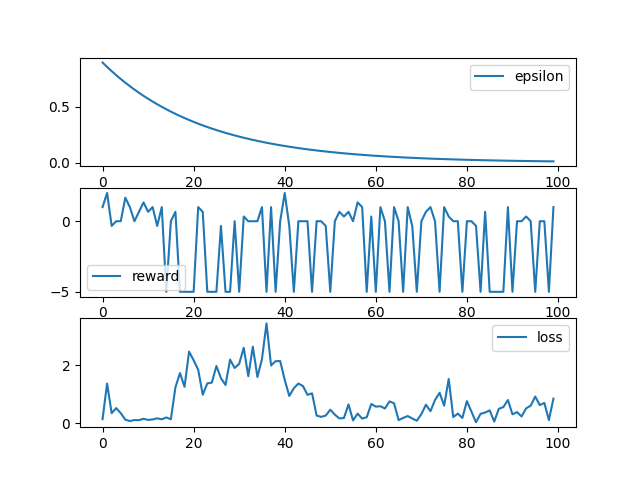
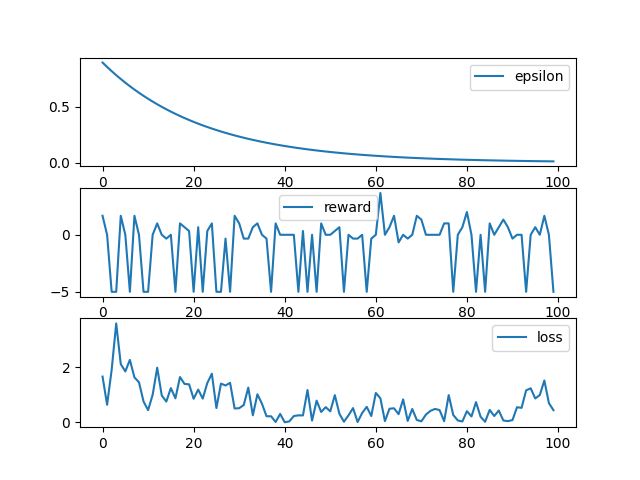
hard to tell if this is any good

diff --git a/multi_optim/mapf_with_rl.py b/multi_optim/mapf_with_rl.py
@@ -123,7 +123,7 @@ class Scenario(object):
 def make_useful_scenarios(n: int, seed) -> List[Scenario]:
     scenarios: List[Scenario] = []
     if n > 1:
-        pb = ProgressBar("Data Generation", n, 1)
+        pb = ProgressBar("Data Generation", n, 5)
     while len(scenarios) < n:
         scen_data: SCENARIO_TYPE = tracing_pathes_in_the_dark(
             size=4,
@@ -151,6 +151,7 @@ class Qfunction(torch.nn.Module):
         torch.manual_seed(0)
         self.conv1 = GCNConv(num_node_features, hidden_channels)
         self.conv2 = GCNConv(hidden_channels, hidden_channels)
+        self.conv3 = GCNConv(hidden_channels, hidden_channels)
         self.lin = Linear(hidden_channels*3, num_actions)
 
     def forward(self, data: Data):
@@ -163,7 +164,11 @@ class Qfunction(torch.nn.Module):
         # 1. Obtain node embeddings
         x = self.conv1(x, edge_index)
         x = x.relu()
+        x = F.dropout(x, p=0.4, training=self.training)
         x = self.conv2(x, edge_index)
+        x = x.relu()
+        x = F.dropout(x, p=0.4, training=self.training)
+        x = self.conv3(x, edge_index)
         x = x.relu()
 
         # 2. Readout layer
@@ -242,8 +247,8 @@ def q_learning(n_episodes: int, eps_start: float,
     n_data_test = int(test_split * n_episodes)
     data_test = make_useful_scenarios(n_data_test, n_episodes * 11)
 
-    qfun = Qfunction(6, 2, 32)
-    qfun_hat = Qfunction(6, 2, 32)
+    qfun = Qfunction(6, 2, 16)
+    qfun_hat = Qfunction(6, 2, 16)
     qfun.copy_to(qfun_hat)
 
     # replay memory
@@ -332,7 +337,7 @@ def q_learning(n_episodes: int, eps_start: float,
 
 if __name__ == "__main__":
     q_learning(
-        n_episodes=10000,
+        n_episodes=1000,
         eps_start=.9,
         c=100,
         gamma=.95,
